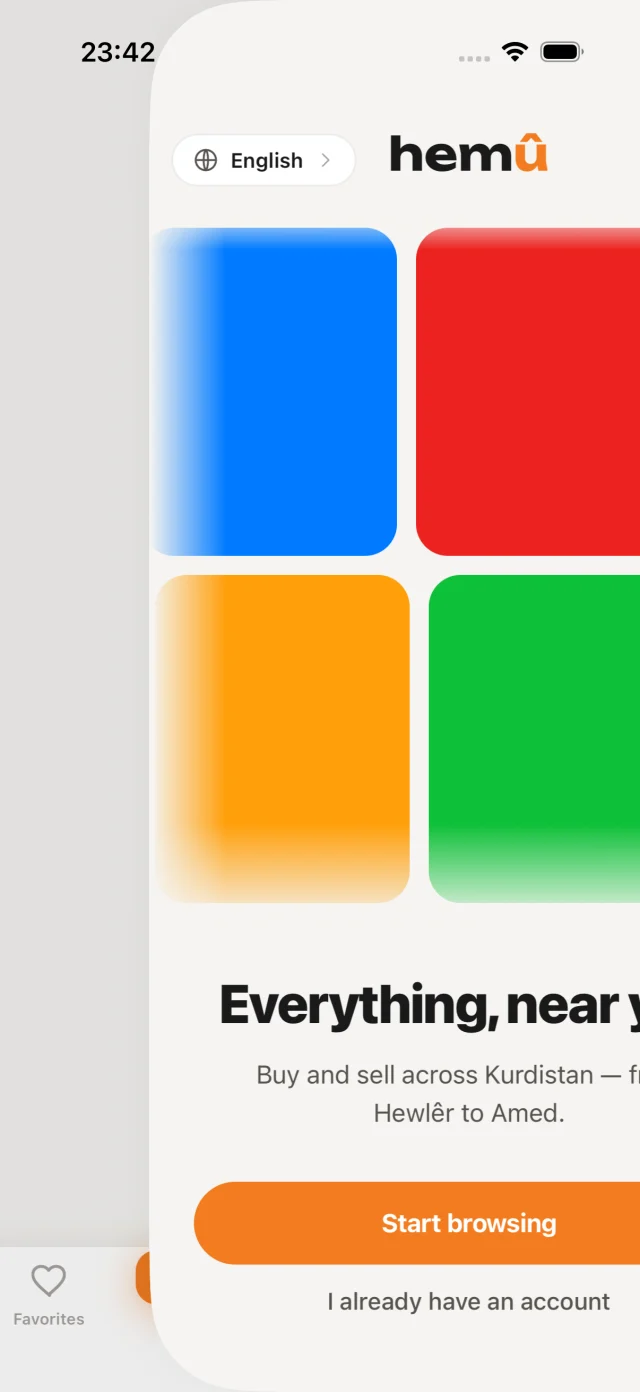
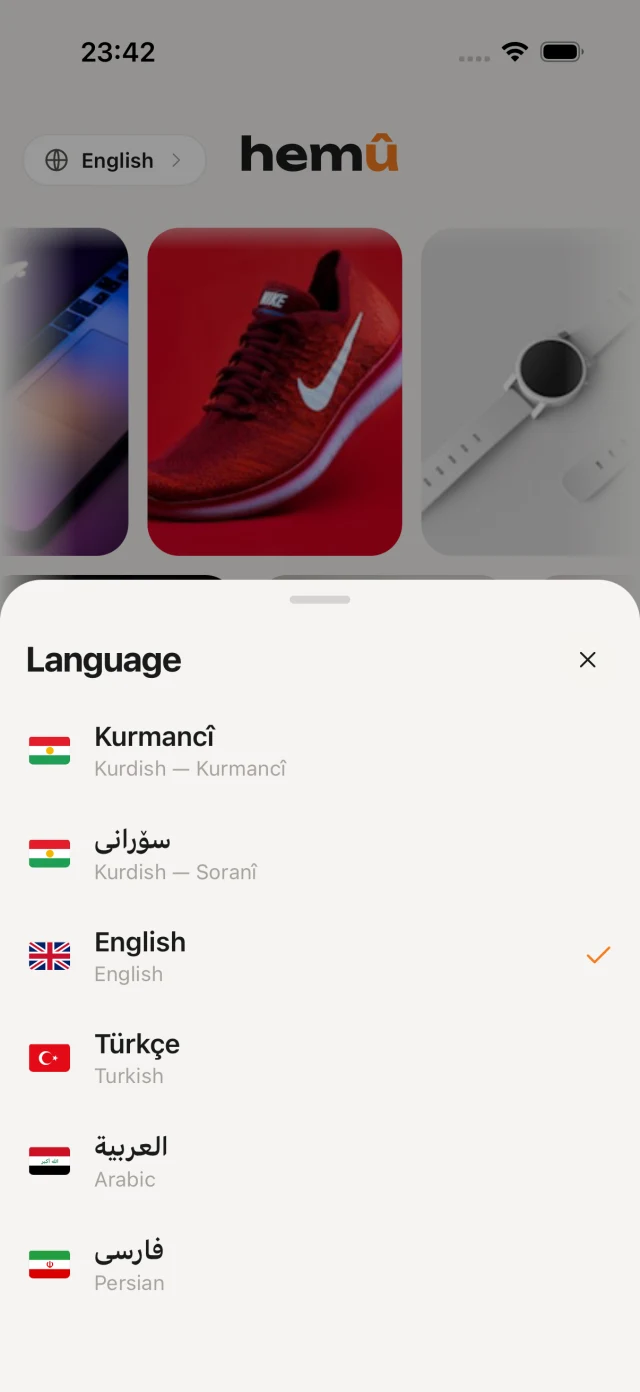
Simplify landing page and replace onboarding preview

diff --git a/src/styles.css b/src/styles.css
@@ -293,25 +293,6 @@ a { color: inherit; }
 .ribbon-track span { display: inline-flex; align-items: center; gap: 12px; padding-inline: 28px; color: rgba(255,255,255,.82); font-size: 13px; font-weight: 700; white-space: nowrap; }
 .ribbon-track i { width: 6px; height: 6px; border-radius: 50%; background: var(--accent); }
 
-.story { padding: clamp(80px, 10vw, 150px) 0; background: var(--paper); }
-.story-head { display: grid; grid-template-columns: .45fr 1.55fr; gap: 30px; align-items: start; }
-.section-kicker { margin: 12px 0 0; color: var(--accent); font-size: 13px; font-weight: 850; letter-spacing: .16em; text-transform: uppercase; }
-.story h2 { max-width: 850px; margin: 0; font-size: clamp(46px, 7vw, 92px); line-height: .98; letter-spacing: -.06em; }
-[dir="rtl"] .story h2 { line-height: 1.2; letter-spacing: 0; }
-.feature-list { margin-top: clamp(60px, 8vw, 110px); border-top: 1px solid var(--line); }
-.feature-list article {
-  display: grid;
-  grid-template-columns: .45fr 1.55fr;
-  gap: 30px;
-  padding: clamp(30px, 4vw, 54px) 0;
-  border-bottom: 1px solid var(--line);
-}
-.feature-index { color: var(--accent); font-size: 13px; font-weight: 800; }
-.feature-list article > div { display: grid; grid-template-columns: .8fr 1fr; gap: clamp(24px, 5vw, 90px); }
-.feature-list h3 { margin: 0; font-size: clamp(25px, 3vw, 40px); line-height: 1.08; letter-spacing: -.035em; }
-[dir="rtl"] .feature-list h3 { line-height: 1.3; letter-spacing: 0; }
-.feature-list p { max-width: 520px; margin: 0; color: #69625c; font-size: 17px; line-height: 1.65; }
-
 footer { background: #1b1815; color: rgba(255,255,255,.62); }
 .footer-inner { min-height: 112px; display: flex; align-items: center; justify-content: space-between; gap: 24px; font-size: 13px; }
 .footer-inner > div { display: flex; align-items: center; gap: 24px; }
@@ -373,12 +354,6 @@ footer { background: #1b1815; color: rgba(255,255,255,.62); }
   .device-main { width: 270px; height: 587px; top: 48%; }
   .device-back { display: none; }
   .floating-card { right: -4px; bottom: 7%; width: 220px; }
-  .story-head,
-  .feature-list article { grid-template-columns: 1fr; gap: 18px; }
-  .story h2 { font-size: 48px; }
-  [dir="rtl"] .story h2 { font-size: 43px; }
-  .feature-list article > div { grid-template-columns: 1fr; gap: 14px; }
-  .feature-list p { font-size: 15px; }
   .footer-inner { min-height: 160px; flex-wrap: wrap; padding-block: 30px; }
   .footer-inner > span { width: 100%; order: 3; }
 }

diff --git a/src/App.tsx b/src/App.tsx
@@ -111,7 +111,7 @@ export default function App() {
 
             <div className="product-stage" aria-label="hemû app preview">
               <div className="stage-halo" />
-              <Device screen={welcomeScreen} className="device-back device-welcome" label="hemû welcome screen" />
+              <Device screen={welcomeScreen} className="device-back device-welcome" label="hemû language onboarding screen" />
               <Device screen={postScreen} className="device-back device-post" label="hemû create listing screen" />
               <Device screen={homeScreen} className="device-main" label="hemû marketplace home screen" eager />
               <div className="floating-card">
@@ -130,23 +130,6 @@ export default function App() {
           </div>
         </section>
 
-        <section className="story">
-          <div className="content-wide story-head">
-            <p className="section-kicker">hemû</p>
-            <h2>{t.features[0].title}</h2>
-          </div>
-          <div className="content-wide feature-list">
-            {t.features.map((feature, index) => (
-              <article key={feature.title}>
-                <span className="feature-index">0{index + 1}</span>
-                <div>
-                  <h3>{feature.title}</h3>
-                  <p>{feature.body}</p>
-                </div>
-              </article>
-            ))}
-          </div>
-        </section>
       </main>
 
       <footer>